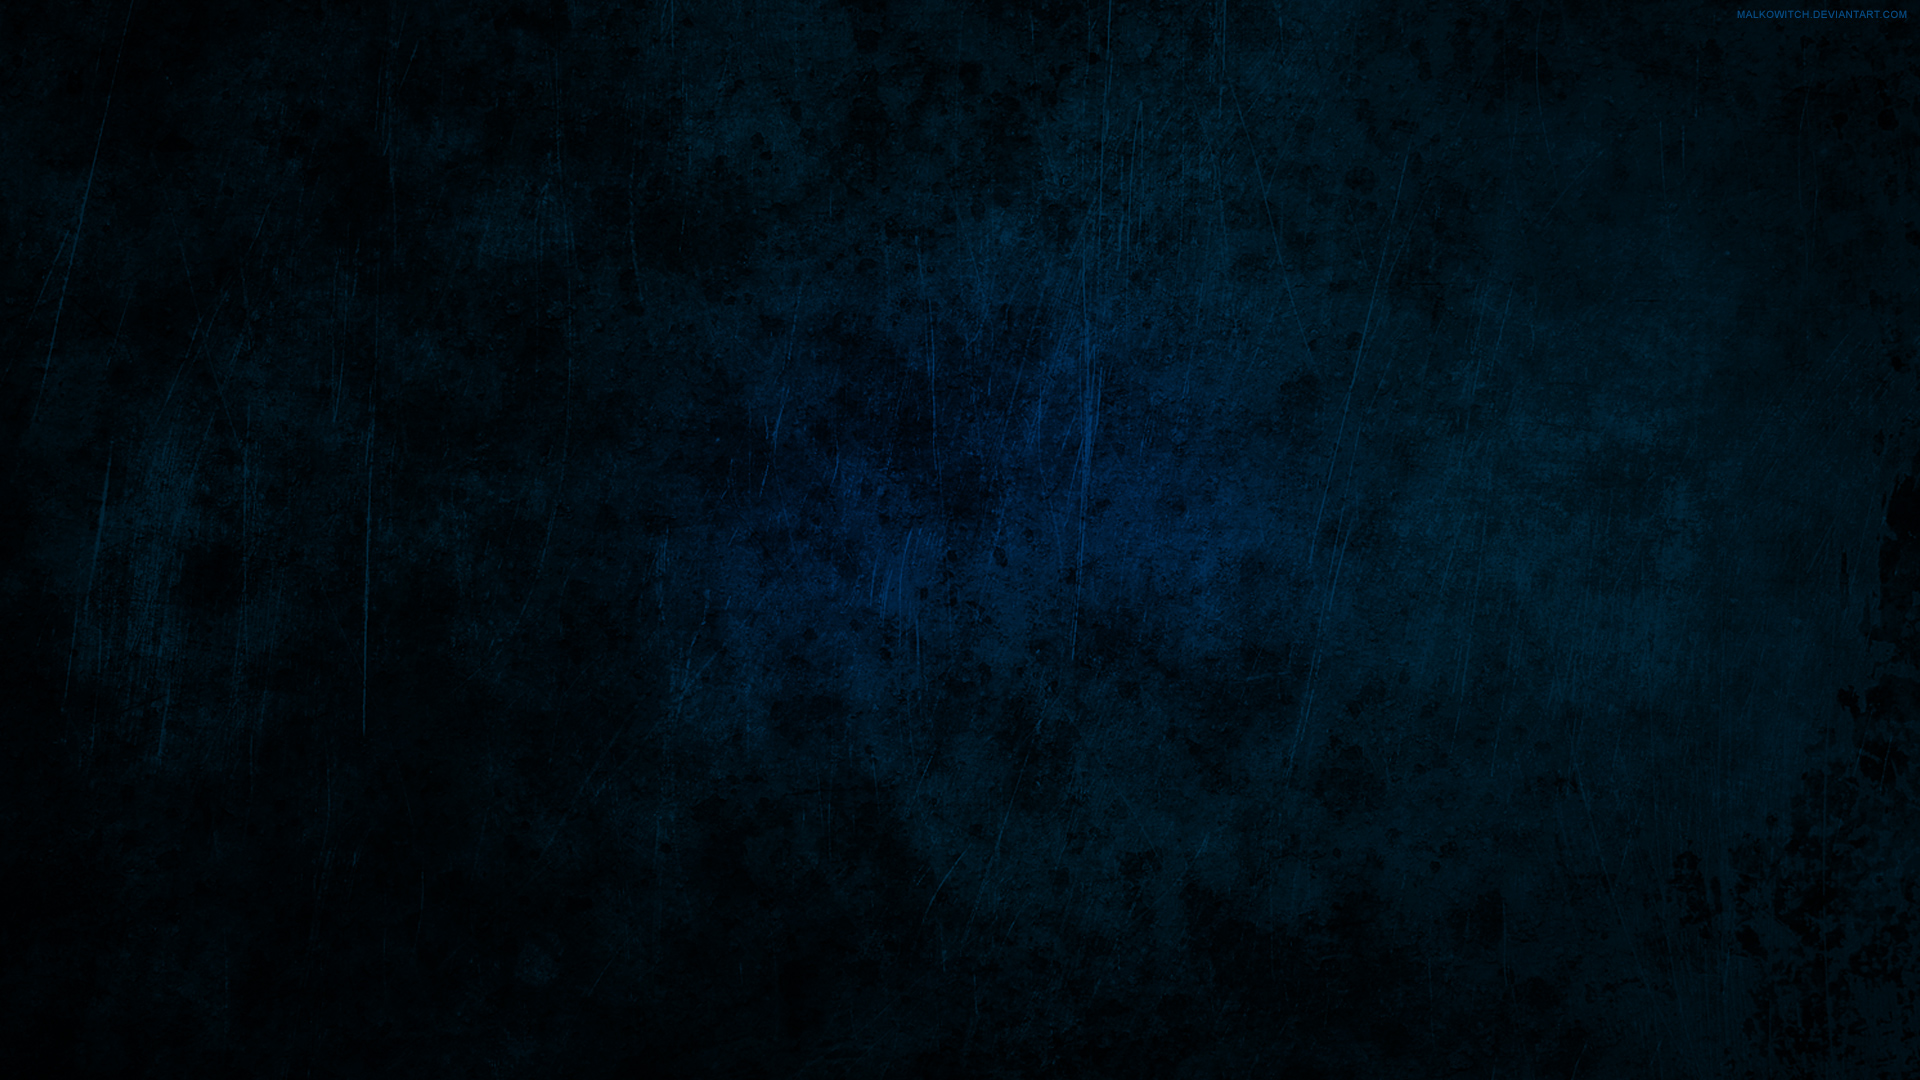
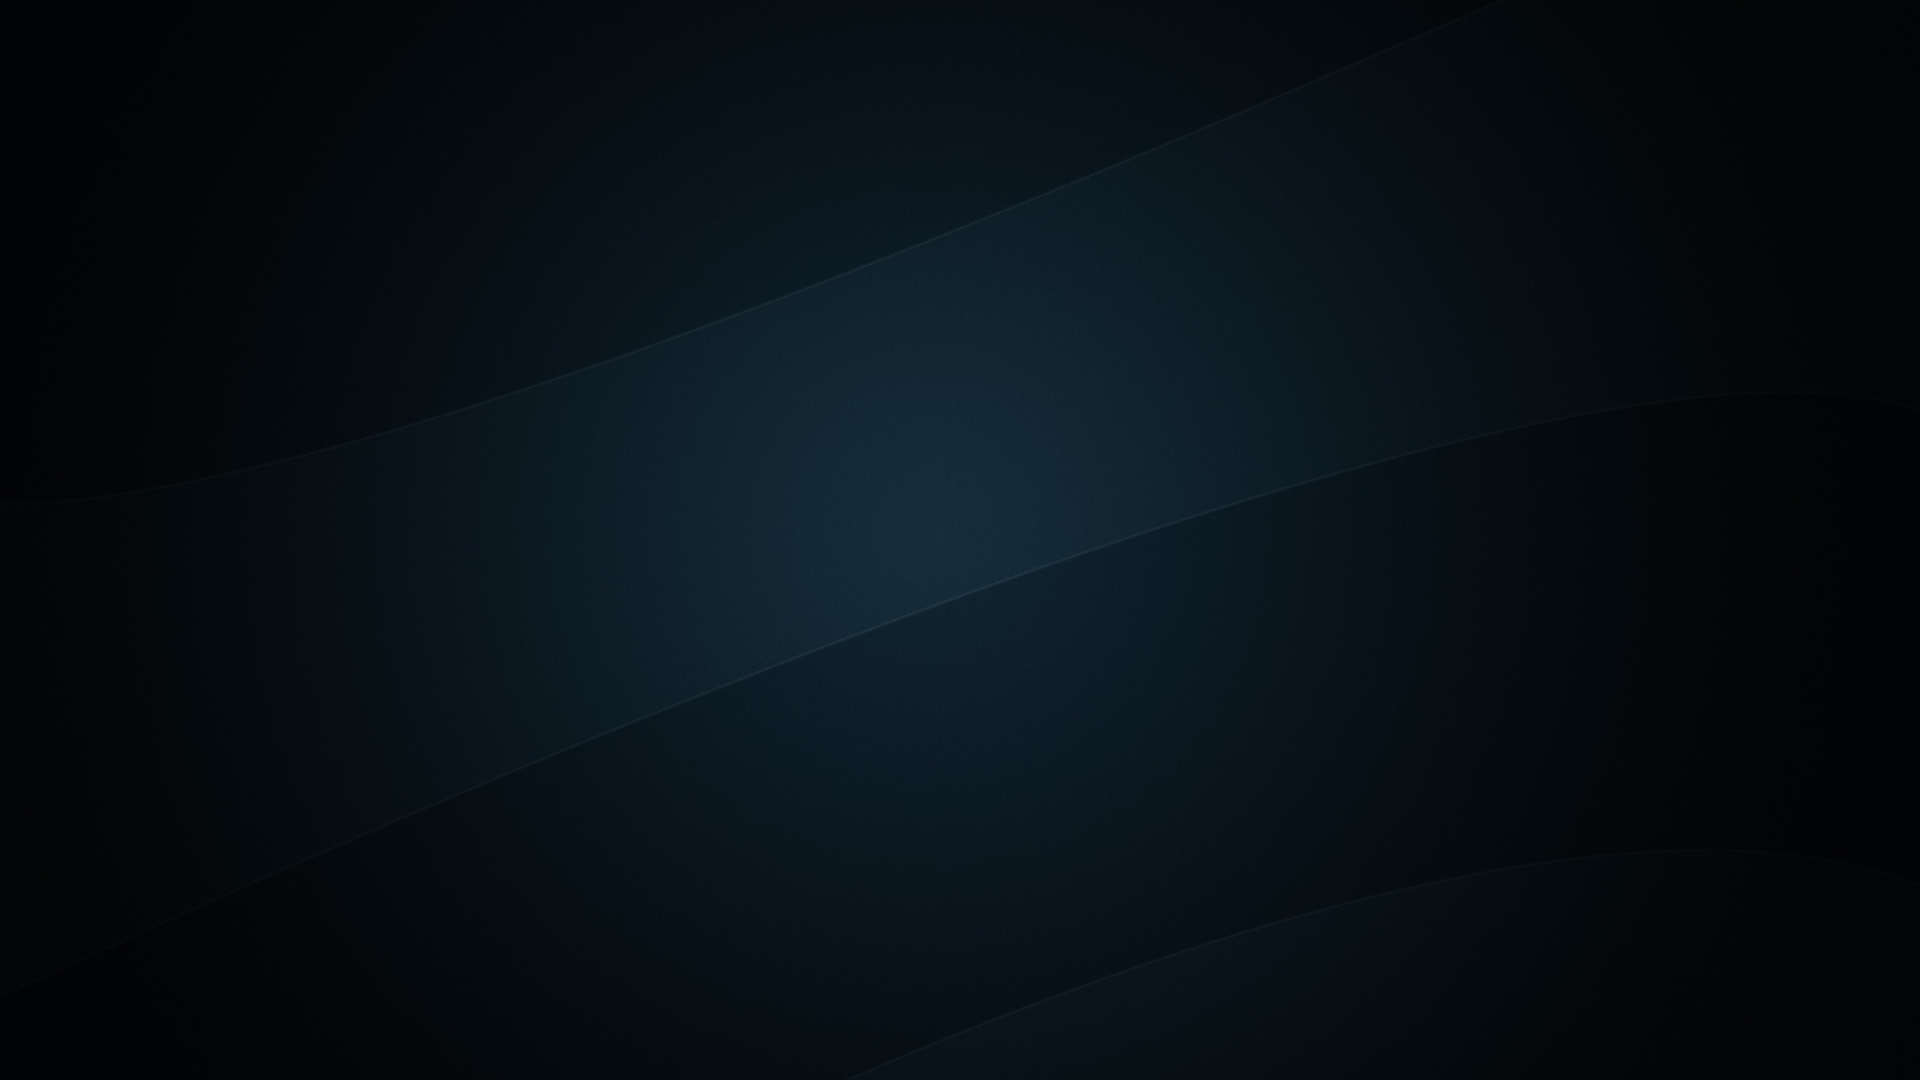
tish again

diff --git a/index.html b/index.html
@@ -13,7 +13,7 @@
     <!-- PERSONAL STYLE SHEET -->
     <link rel="stylesheet" href="./assets/css/style.css">
     <!-- BOOTSTRAP/JQUERY SCRIPT LINKS -->
-    <script src="http://code.jquery.com/jquery-3.3.1.js" integrity="sha256-2Kok7MbOyxpgUVvAk/HJ2jigOSYS2auK4Pfzbm7uH60=" crossorigin="anonymous"></script>
+    <script src="https://code.jquery.com/jquery-3.3.1.js" integrity="sha256-2Kok7MbOyxpgUVvAk/HJ2jigOSYS2auK4Pfzbm7uH60=" crossorigin="anonymous"></script>
     <!-- PERSONAL JAVASCRIPT SHEET -->
     <script src="./assets/javascript/app.js"></script>
     <title>Zelda - Trivia</title>

diff --git a/assets/css/style.css b/assets/css/style.css
@@ -1,8 +1,12 @@
 body{
-    background-image: url("../images/blueBG.jpg");
+    background-image: url("../images/startBG.jpeg");
     background-size: cover;
     background-position: absolute;
 };
 .container result{
     display: none;
 };
+@font-face {
+    font-family: "Triforce";
+    src: url("../fonts/Triforce.ttf"); 
+} 
